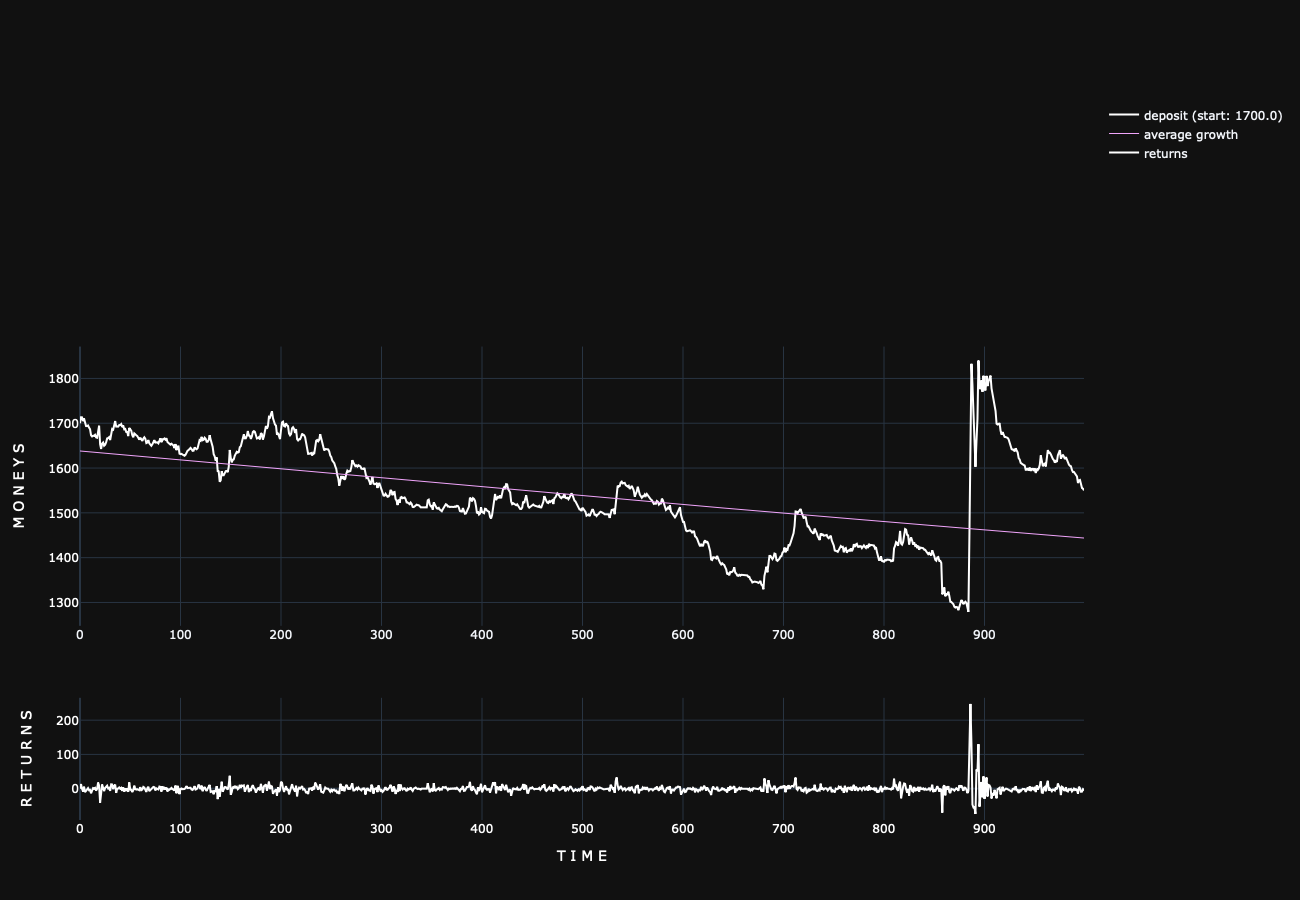
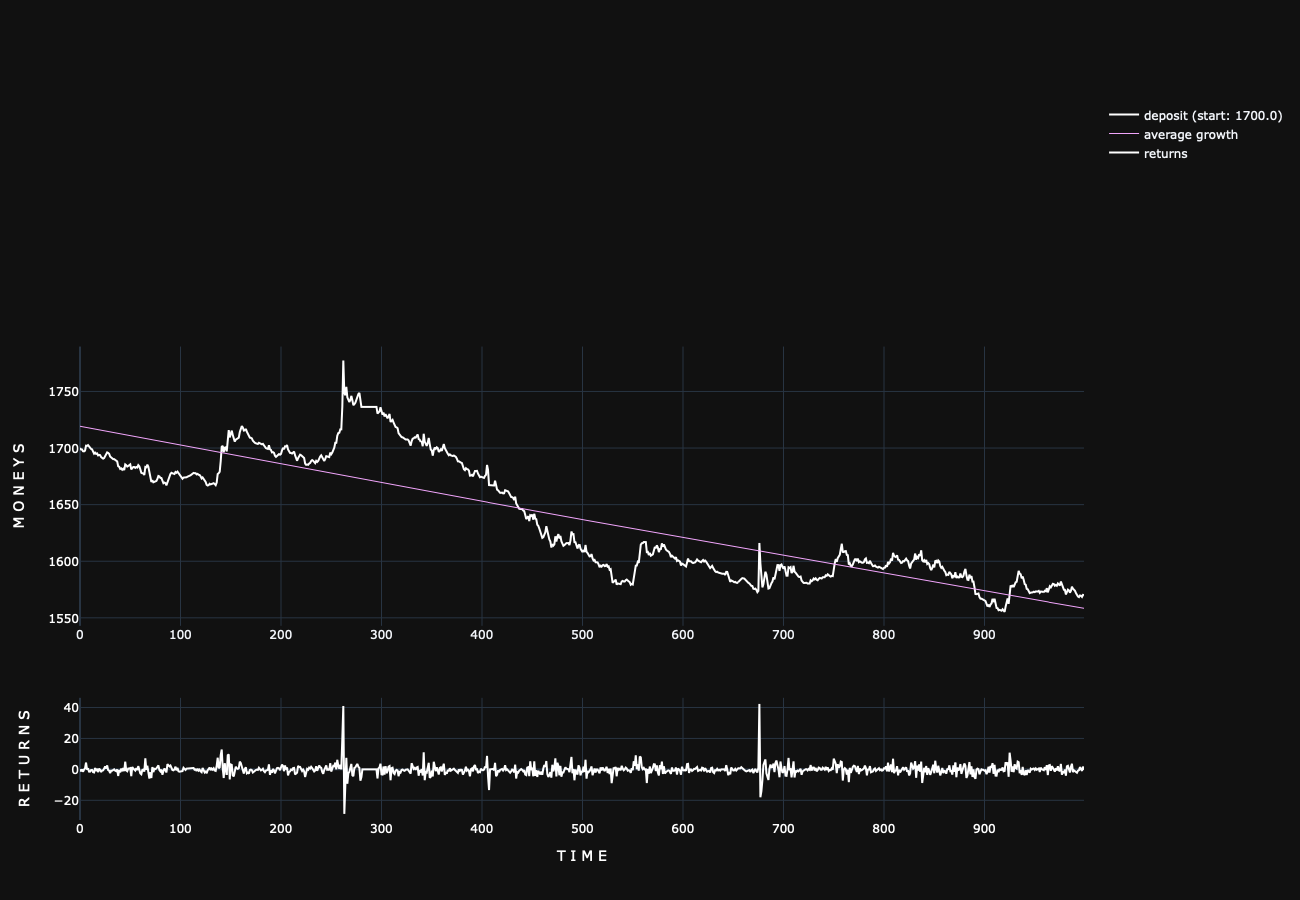
debug and docs

diff --git a/quick_trade/utils.py b/quick_trade/utils.py
@@ -50,7 +50,7 @@ RETURNS_WIDTH: float = 2.0
 RETURNS_ALPHA: float = 1.0
 
 DATA_TITLE: str = 'D A T A'
-DATA_NAME: str = '{0} {1}'  # '{} {}'.format(Trader.ticker, Trader.interval)
+DATA_NAME: str = '{0} {1}'  # .format(Trader.ticker, Trader.interval)
 DATA_UP_COLOR = 'green'
 DATA_DOWN_COLOR = 'red'
 DATA_ALPHA: float = 1.0
@@ -172,14 +172,14 @@ Sortino ratio: {}
 calmar ratio: {}
 max drawdown: {}%"""  # .format(Trader.losses, Trader.trades, ...)
 
-__version__: str = "6.8.1"
+__version__: str = "6.9.0"
 __author__: str = 'Vlad Kochetov'
 __credits__: List[str] = [
     "Hemerson Tacon -- Stack overflow",
     "hpaulj -- Stack overflow",
     "furas -- Stack overflow",
     "Devin Jeanpierre (edit: wjandrea) -- Stack overflow",
-    "Войтенко Миколай Полікарпович (Vojtenko Nikolay Polikarpovich) -- helped me test the system of interaction with the binance crypto exchange",
+    "Войтенко Миколай Полікарпович (Vojtenko Mykolay Polikarpovich) -- helped me test the system of interaction with the binance crypto exchange",
     "https://fxgears.com/index.php?threads/how-to-acquire-free-historical-tick-and-bar-data-for-algo-trading-and-backtesting-in-2020-stocks-forex-and-crypto-currency.1229/#post-19305 -- binance get historical data method",
     "https://www.geeksforgeeks.org/python-different-ways-to-kill-a-thread/ and https://teletype.in/@cozy_codespace/Hk70-Ntl4 -- heroku and threading problems",
     "https://stackoverflow.com/questions/57838939/handling-exceptions-with-bulk-api-requests -- IEX token",
@@ -237,20 +237,12 @@ class SuperTrendIndicator(object):
         return self._all['ST_lower']
 
     def get_supertrend_strategy_returns(self) -> Series:
-        """
-
-        :return: pd.Series with 1 or -1 (buy, sell)
-        """
         return self._all['ST_strategy']
 
     def get_all_ST(self) -> DataFrame:
         return self._all
 
     def _get_all_ST(self) -> DataFrame:
-        """
-
-        ST Indicator, trading predictions, ST high/low
-        """
         m = self.close.size
         dir_, trend = [1] * m, [0] * m
         long, short = [nan] * m, [nan] * m
@@ -279,7 +271,6 @@ class SuperTrendIndicator(object):
             else:
                 trend[i] = short[i] = upperband.iloc[i]
 
-        # Prepare DataFrame to return
         df = DataFrame(
             {
                 f"ST": trend,
@@ -417,8 +408,7 @@ def wait_success(func):
                 if not isinstance(e, KeyboardInterrupt):
                     if WAIT_SUCCESS_PRINT:
                         print(f'An error occurred: {e}, repeat request')
-                    logger.error(f'An error occurred: {e}, '
-                                 f'args: {args}, kwargs: {kwargs}', exc_info=True)
+                    logger.error(f'An error occurred. args: {args}, kwargs: {kwargs}', exc_info=True)
                     sleep(WAIT_SUCCESS_SLEEP)
                     continue
                 else:

diff --git a/quick_trade/trading_sys.py b/quick_trade/trading_sys.py
@@ -470,11 +470,11 @@ class Trader(object):
                                               signal=sig)
             else:
                 diff = 0.0
-            if sig == utils.SELL:
-                diff = -diff
-
             if not no_order:
-                deposit += bet * credit_lev * diff / open_price
+                if sig == utils.BUY:
+                    deposit += bet * credit_lev * diff / open_price
+                elif sig == utils.SELL:
+                    deposit *= 1/((data_column[e] + diff)/data_column[e])
             self.deposit_history.append(deposit)
 
             no_order = exit_take_stop

diff --git a/setup.py b/setup.py
@@ -6,7 +6,7 @@ from setuptools import find_packages
 with open('README.md') as file:
     long_desc = file.read()
 
-__version__ = "6.8.1"
+__version__ = "6.9.0"
 
 setup(
     name='quick_trade',

diff --git a/docs/docs/quick_trade/README.md b/docs/docs/quick_trade/README.md
@@ -136,11 +136,15 @@ Result:
 
 ```commandline
 losses: 64
-trades: 95
-profits: 25
-mean year percentage profit: -99.99999896786758%
-winrate: 26.31578947368421%
-mean deviation: 1.4569306356613254%
+trades: 97
+profits: 27
+mean year percentage profit: -99.99999998327092%
+winrate: 27.835051546391753%
+mean deviation: 2.624118103674615%
+Sharpe ratio: -44.291604314886655
+Sortino ratio: -52.11339011671788
+calmar ratio: -4.920697866228742
+max drawdown: 20.322320675199602%
 ```
 
 ![image](https://raw.githubusercontent.com/VladKochetov007/quick_trade/master/img/simple_backtest_example.png)
@@ -176,12 +180,16 @@ trader.multi_backtest(test_config={
 Result:
 
 ```commandline
-losses: 92
-trades: 36
-profits: 36
-mean year percentage profit: -99.75637914387364%
-winrate: 26.407268062042323%
-mean deviation: 5.669772760548183%
+losses: 54
+trades: 80
+profits: 22
+mean year percentage profit: -93.08433705679062%
+winrate: 27.5%
+mean deviation: 1.6403124394477397%
+Sharpe ratio: -0.599092330855509
+Sortino ratio: -0.9589200009261966
+calmar ratio: -9.081044783748151
+max drawdown: 10.250399516075348%
 ```
 
 ![image](https://github.com/VladKochetov007/quick_trade/blob/master/img/multi_backtest_example.png?raw=true)

diff --git a/README.md b/README.md
@@ -184,12 +184,16 @@ trader.backtest(deposit=1000, commission=0.075, bet=inf)  # backtest on one pair
 ## Output print
 
 ```commandline
-losses: 18
-trades: 25
-profits: 7
-mean year percentage profit: -8.471933037953615%
-winrate: 28.000000000000004%
-mean deviation: 1.3587506741755202%
+losses: 12
+trades: 20
+profits: 8
+mean year percentage profit: 215.1878652911773%
+winrate: 40.0%
+mean deviation: 2.917382949881604%
+Sharpe ratio: 0.02203412259055281
+Sortino ratio: 0.02774402450236864
+calmar ratio: 21.321078596349782
+max drawdown: 10.092728860725552%
 ```
 
 ## Run strategy
@@ -240,9 +244,7 @@ trader.realtime_trading(
     strategy=trader.strategy,
     start_time=start_time,
     ticker=ticker,
-    coin_lotsize_division=True,
     limit=100,
-    ignore_exceptions=False,
     wait_sl_tp_checking=5
 )
 

diff --git a/docs/docs/quick_trade/utils.md b/docs/docs/quick_trade/utils.md
@@ -158,7 +158,7 @@ get all supertrend data as `pd.DataFrame`:
 
 ## get_exponential_growth
 
-Function for calculating [Compound interest](https://investmentu.com/simple-interest-vs-compound-interest/)
+Function for calculating [compound interest](https://investmentu.com/simple-interest-vs-compound-interest/)
 
 | param  | type | description |
 | :---: | :---: | :---: |
@@ -207,7 +207,7 @@ Decorator. If AssertionError was called, then first the error is written to the 
 
 ## get_diff
 
-Function for getting the price movement from the current one to TP or SL. Mainly SL
+Function for getting the price movement from the current one to TP or SL.
 
 | param  | type | description |
 | :---: | :---: | :---: |

diff --git a/docs/docs/quick_trade/trading_sys.md b/docs/docs/quick_trade/trading_sys.md
@@ -217,12 +217,16 @@ trader.multi_backtest(test_config={'BTC/USDT': [strategy],
 output:
 
 ```commandline
-losses: 146
-trades: 214
-profits: 68
-mean year percentage profit: -92.25033539138768%
-winrate: 31.566354534845413%
-mean deviation: 4.637481539757627%
+losses: 131
+trades: 187
+profits: 56
+mean year percentage profit: -99.98292595327236%
+winrate: 30.352119656186698%
+mean deviation: 1.3564893692018003%
+Sharpe ratio: -11.951556929509964
+Sortino ratio: -18.561188937509858
+calmar ratio: -8.002808500501935
+max drawdown: 12.493479751140047%
 ```
 
 ![image](https://github.com/VladKochetov007/quick_trade/blob/master/img/multi_backtest.png?raw=true)
